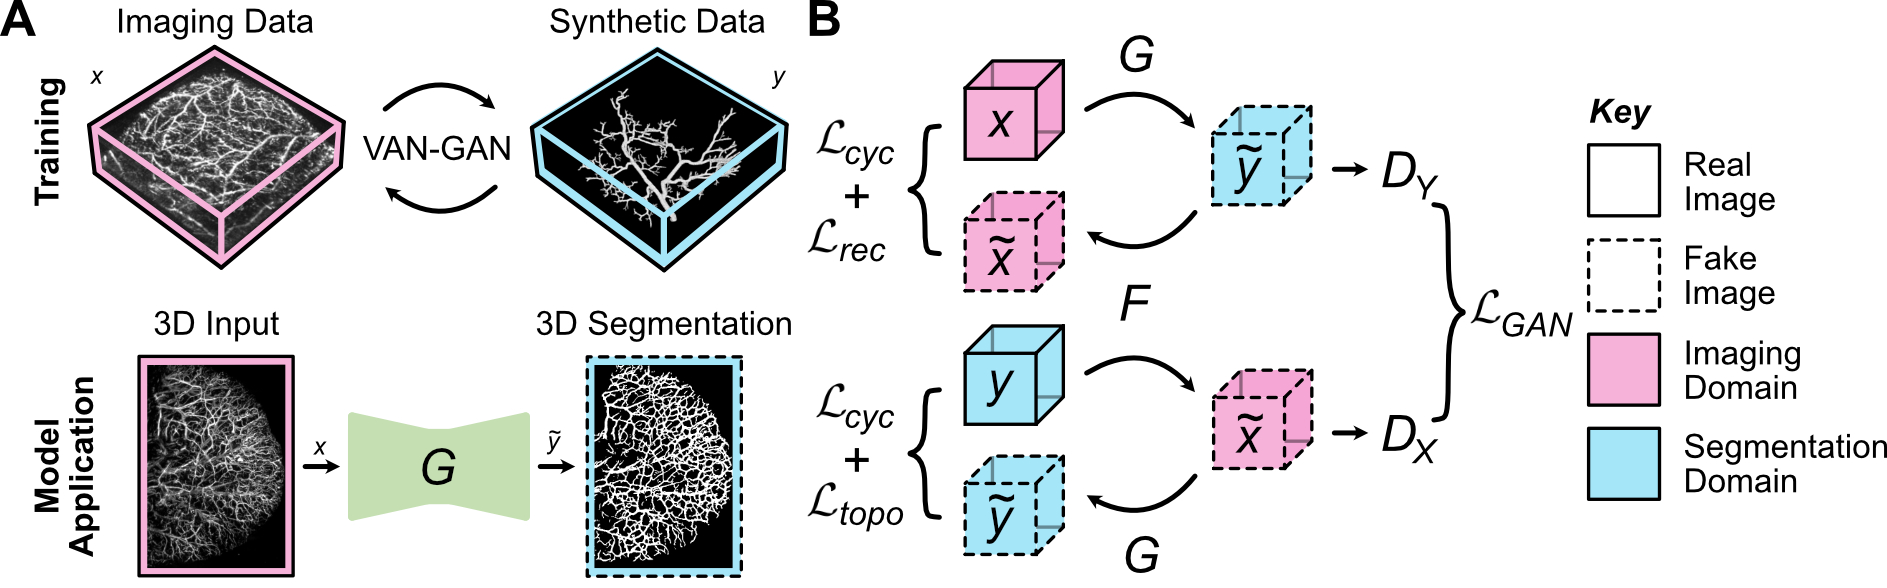
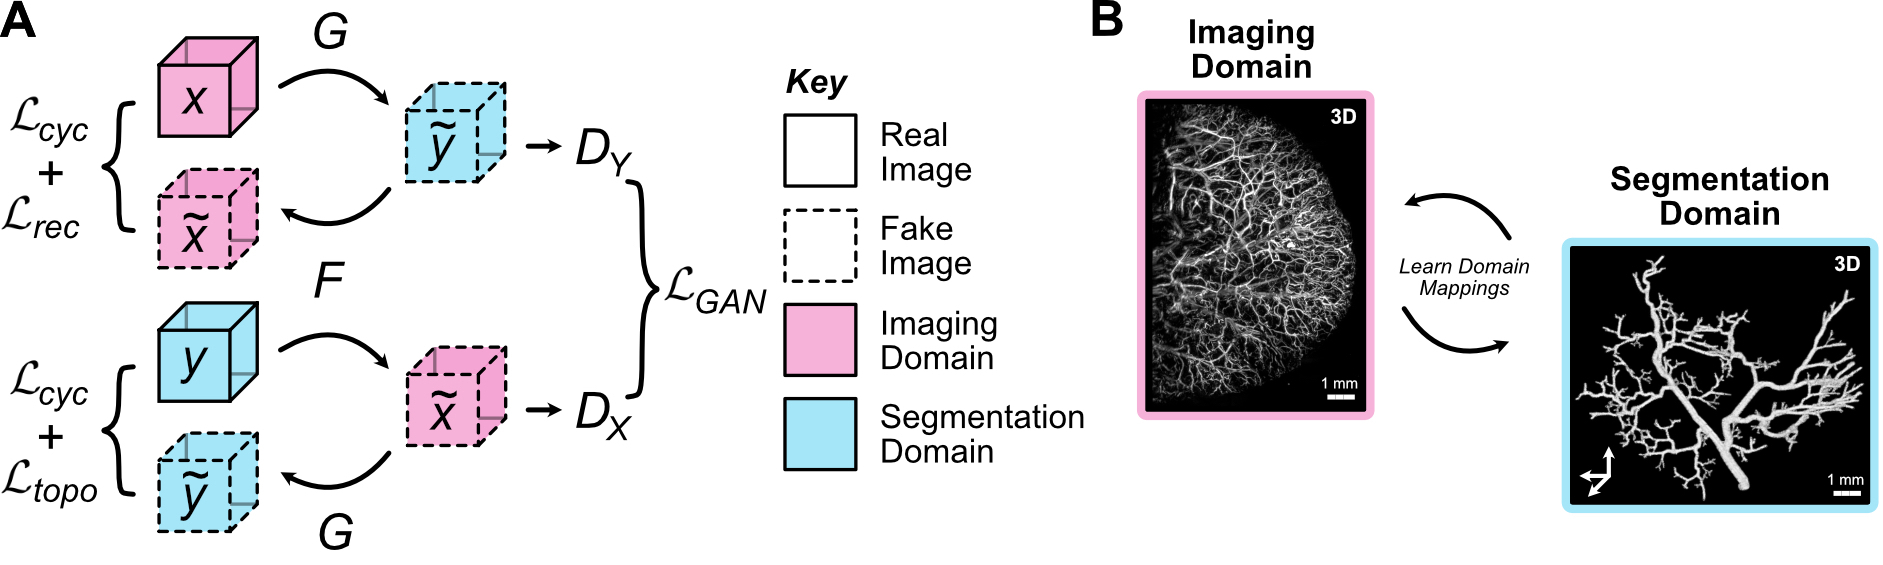
Add files via upload
Numerous optimisations updates compared to the previous version of VAN-GAN. Working towards a generalised framework, including 2D image and semi-supervised compatibility.

diff --git a/preprocessing.py b/preprocessing.py
@@ -100,7 +100,7 @@ class DataPreprocessor:
         # Split data into train/validate/test
         print('Splitting dataset ...')
         self.train_files, self.test_files = np.split(files, [int(len(files) * 0.9)])
-        self.train_files, self.validate_files = np.split(self.train_files, [int(len(self.train_files) * 0.8)])
+        self.train_files, self.validate_files = np.split(files, [int(len(files) * 0.8)])
 
         # Save partitioned dataset
         self.partition['training'] = self.train_files

diff --git a/README.md b/README.md
@@ -6,8 +6,14 @@
 
 Recent advancements in imaging hardware have opened up new possibilities for visualising 3D vascular networks with exceptional resolution. However, the task of segmenting microvascular networks from these 3D image volumes and interpreting their physiological and pathological significance remains a time-consuming and error-prone process. Deep learning holds great potential in addressing this challenge, but existing supervised frameworks rely on labor-intensive human-annotated ground truth labels. To overcome these limitations, we introduce ***Vessel Segmentation Generative Adversarial Network (VAN-GAN)***, an unsupervised image-to-image translation deep learning model.
 
-![alt text](VANGAN_Overview.jpg)
-*(A) The training and application process of VAN-GAN utilises two unpaired datasets (real PAI volumes, x and synthetic blood vessels, y) to train the segmentor, G, for real-world use. (B) VAN-GAN adapts the cycleGAN model and learns mappings between imaging (x) and segmentation (y) domains (G:x->y, F:y->x) using additional reconstruction and topological cycle-consistency constraints.*
+
+
+<figure style="text-align:center;">
+  <img src="VANGAN_Overview.jpg" alt="Alt Text">
+  <figcaption style="font-style: italic; font-size: 0.8em;">(A) VAN-GAN performs unsupervised training to learn the mappings between the imaging and segmentation domains to train a generator which can segment 3D vasculatures from biomedical image volumes. (B) The two domains are define as: 1) Imaging domain, the dataset of real biomedical image volumes; and 2) segmentation domain, the dataset of computer-generated 3D vascular labels.
+</figcaption>
+</figure>
+
 
 ## Methodology
 
@@ -22,8 +28,10 @@ VAN-GAN is a Python package that employs image-to-image translation techniques t
   * **Exclusion of Identity Loss**: The identity loss component is excluded from the objective, streamlining the segmentation process and avoiding unnecessary complexities. 
 * **Synthetic 3D Images**: VAN-GAN leverages synthetic blood vessel networks closely resembling real-life anatomy during training, effectively removing the reliance on manual labelling.
 
-![alt text](Generator_Architecture.jpg)
-*(A) The VAN-GAN model trains a 3D deep residual U-Net architecture to segment 3D images of real blood vessel networks. An example of a tumour vasculature imaged using mesoscopic photoacoustic imaging is shown where the image is provided as input and the 3D segmentation mask predicted as output. (B) Full pre-activation residual blocks in the residual U-Net and (C) a sliding window approach is utilised to construction mask of large images.*
+<figure style="text-align:center;">
+  <img src="Generator_Labelling_Architecture.jpg" alt="Alt Text">
+  <figcaption style="font-style: italic; font-size: 0.8em;">The VAN-GAN model trains a 3D deep residual U-Net architecture to segment 3D images of real blood vessel networks. An example of a tumour vasculature imaged using mesoscopic photoacoustic imaging is shown where the image is provided as input and the 3D segmentation mask predicted as output.</figcaption>
+</figure>
 
 ## Installation
 To install the package from source, download the latest release on the VAN-GAN repository or run the following in a terminal window:
